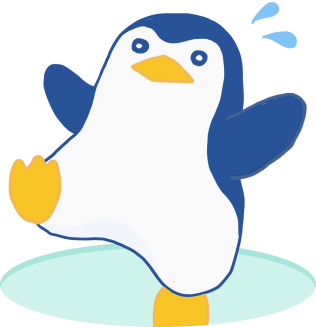
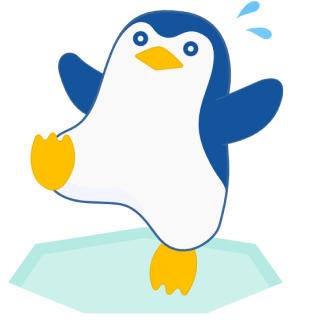
404のイラストを差し替え

diff --git a/src/layouts/error.vue b/src/layouts/error.vue
@@ -63,7 +63,7 @@ export default {
   width: 180px;
   margin: 40px auto;
   @include media(md, max) {
-    width: 120px;
+    width: 140px;
   }
 }
 </style>
